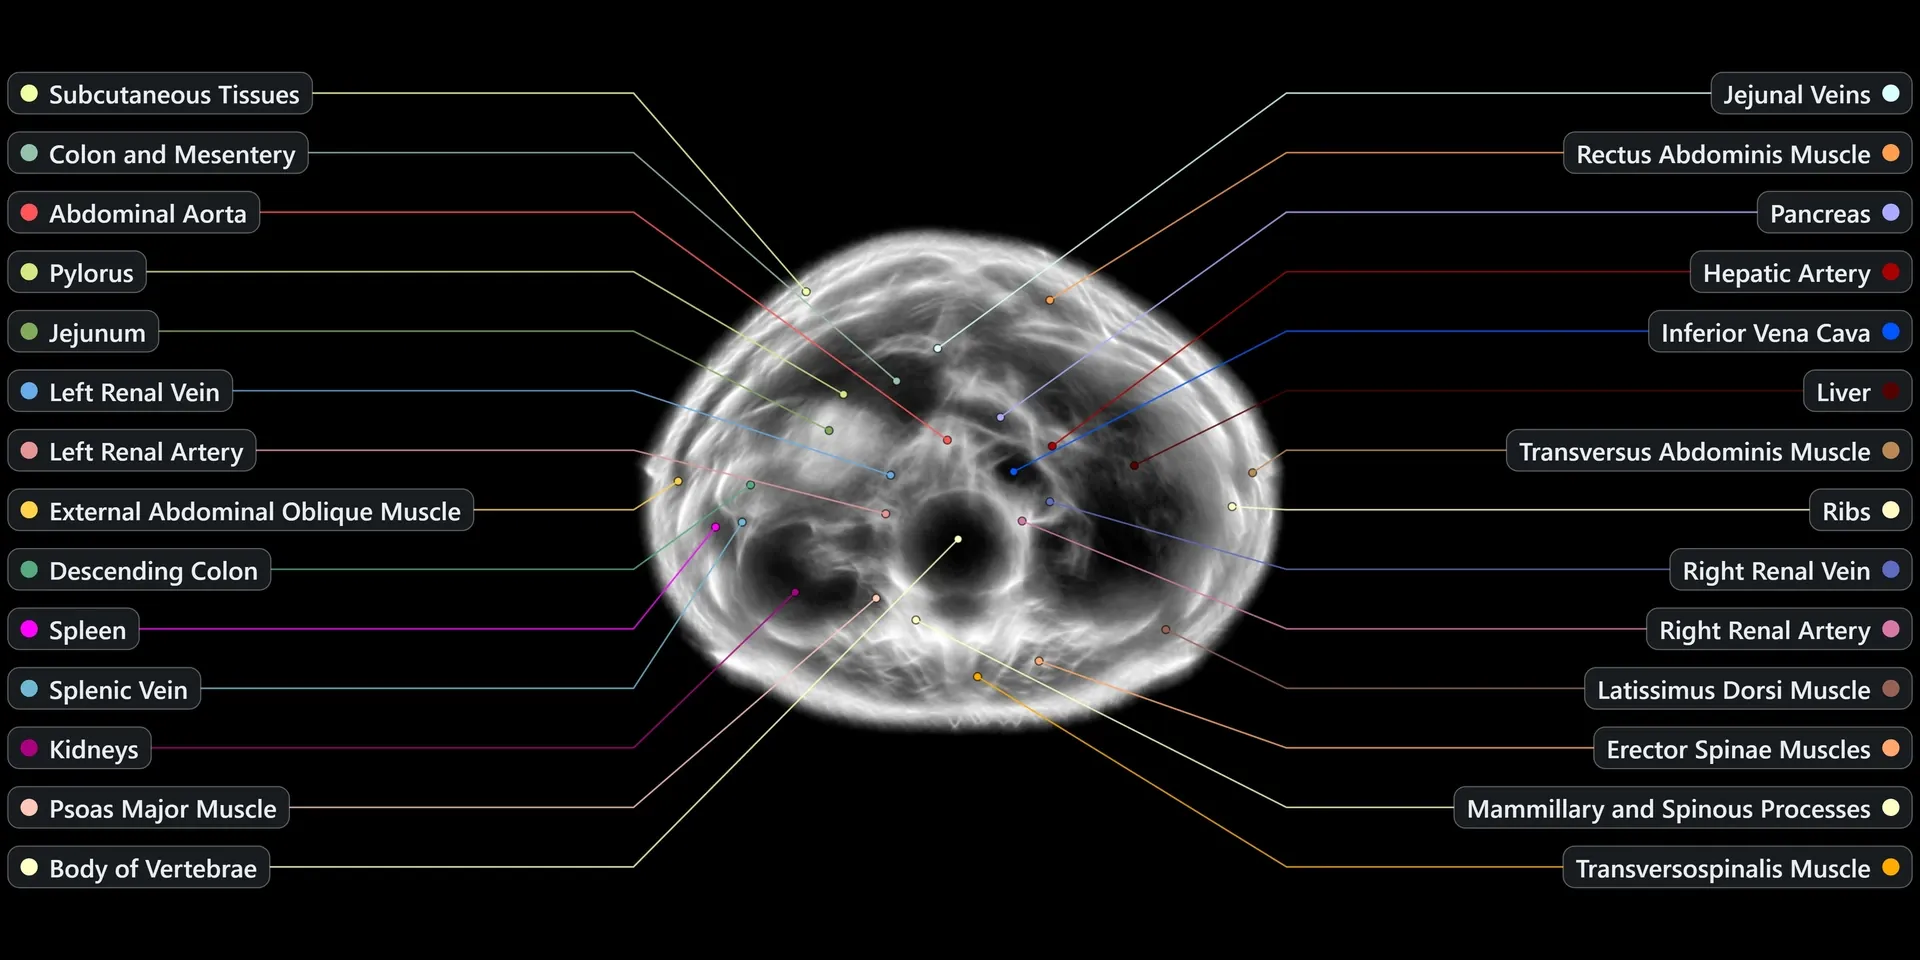
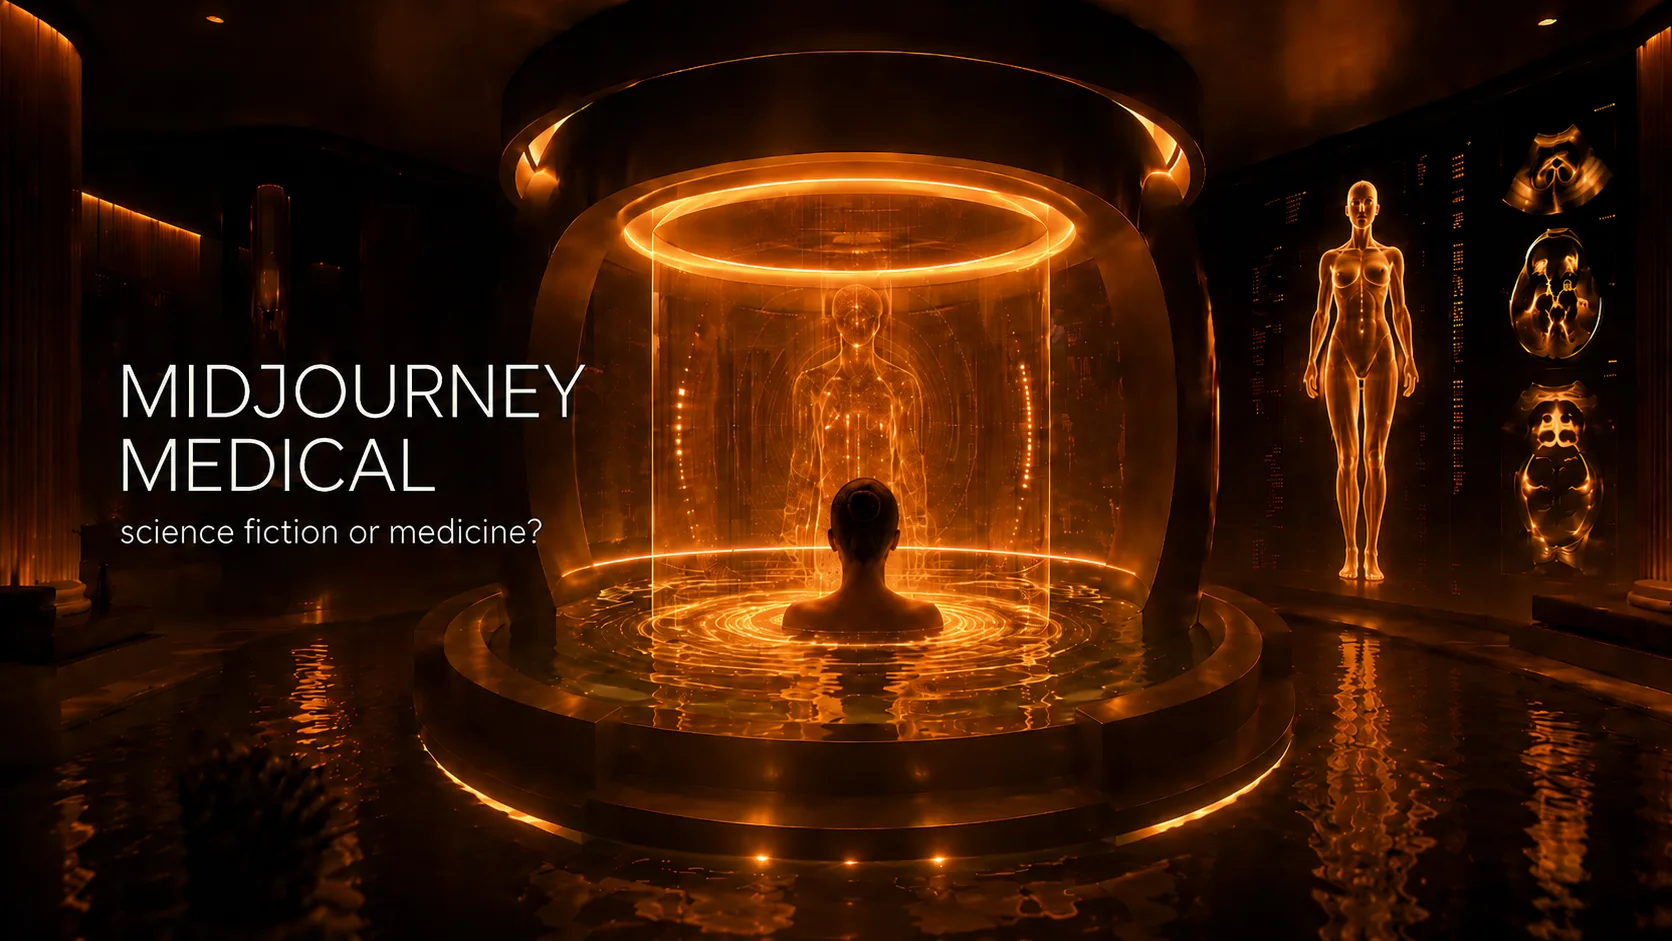
content: add localized golden-pool hero images for Midjourney post (en + es)

diff --git a/src/content/blog/es/2026-06-19_midjourney-medical-pivot.md b/src/content/blog/es/2026-06-19_midjourney-medical-pivot.md
@@ -2,7 +2,7 @@
 title: "Midjourney quiere escanear todo tu cuerpo en 60 segundos"
 description: "Midjourney, la empresa de imágenes con IA, presentó un escáner de ultrasonido de cuerpo completo y un spa. ¿Es un pivote o una nueva división? ¿Y funciona?"
 pubDate: "2026-06-19"
-heroImage: "/images/blog/posts/midjourney-medical-pivot/hero.webp"
+heroImage: "/images/blog/posts/midjourney-medical-pivot/hero-es.webp"
 heroLayout: "banner"
 tags: ["tech", "ai"]
 keywords: ["Midjourney escáner médico", "qué es Ultrasonic CT Midjourney", "ultrasonido de cuerpo completo Midjourney", "Midjourney Spa San Francisco", "Midjourney pivote a salud", "tomografía por ultrasonido cuerpo completo", "Midjourney Butterfly Network acuerdo"]